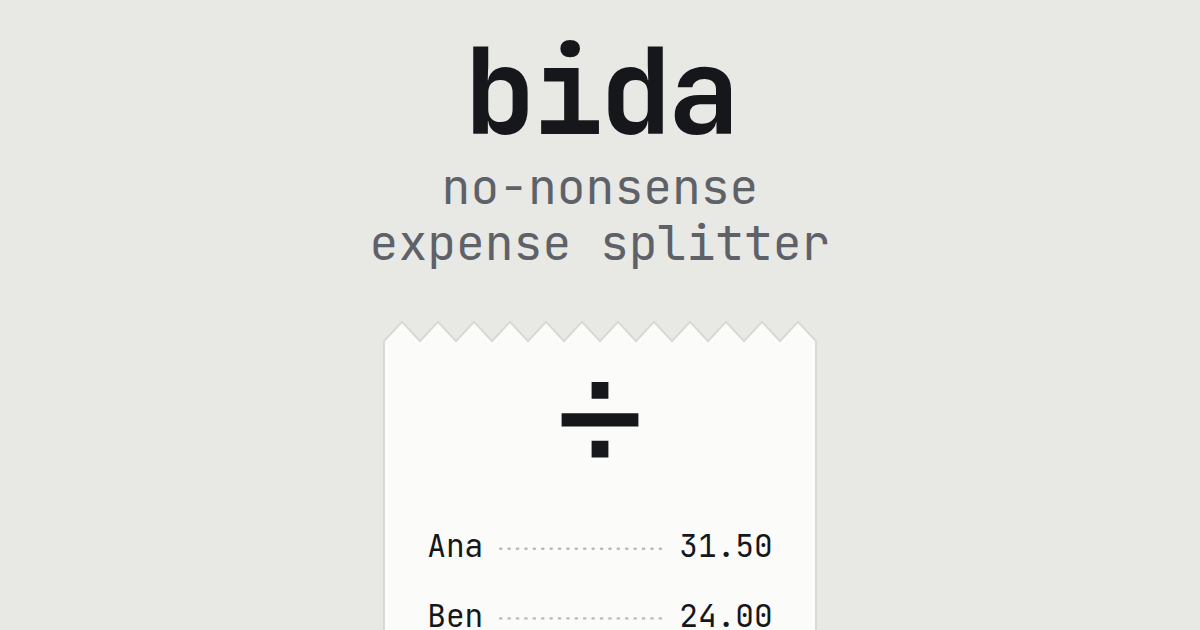
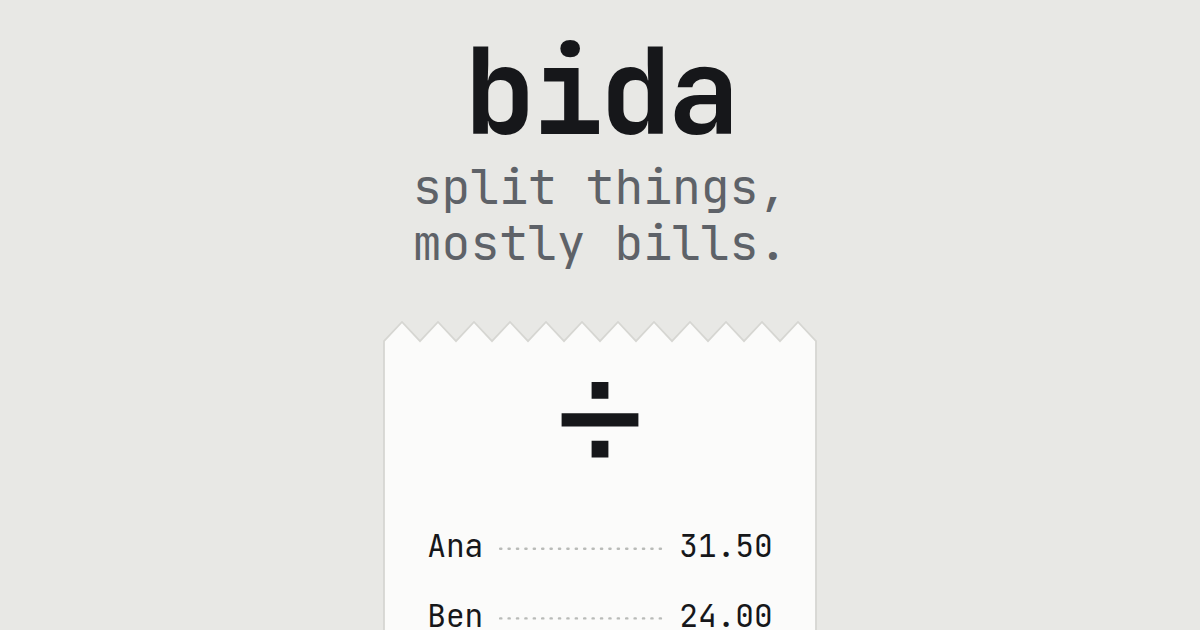
web: new slogan, "Split things. Mostly bills."
On the banner (og.png redrawn), the page and manifest description, the
banner's alt text, and under the README's title with a line on what bida is.

Claude-Session: https://claude.ai/code/session_01PECSAz6X4PLyKBbFuLZdEY

Changed region(s): [[0.3083, 0.2714, 0.7092, 0.4222], [0.3392, 0.2714, 0.555, 0.3317]]

diff --git a/apps/web/lib/copy.ts b/apps/web/lib/copy.ts
@@ -44,11 +44,11 @@ export const copy = {
   app: {
     name: "bida",
     /** The page description: the line under "bida" in a pasted-link preview. Never shown in-app. */
-    description: "No-nonsense expense splitter.",
+    description: "Split things. Mostly bills.",
     /** Alt text for the preview banner, public/og.png — what the picture says. */
     /** An invite's preview title. The banner already says "bida" and the slogan, and the group's name can't be had (docs/pwa.md). */
     invite: "Join the group",
-    banner: "bida, no-nonsense expense splitter: a receipt split between Ana and Ben",
+    banner: "bida, split things, mostly bills: a receipt split between Ana and Ben",
   },
 
   /** Buttons. One verb each — a button never says "OK". */

diff --git a/README.md b/README.md
@@ -4,7 +4,9 @@
 
 <h1 align="center">bida</h1>
 
-<p align="center">Lightweight, full-featured and free Splitwise/Tricount alternative.</p>
+<p align="center"><i>Split things. Mostly bills.</i></p>
+
+<p align="center">bida is an expense splitter app similar to Splitwise or Tricount. It's free and it works in the browser, no accounts needed. Also, it lets you scan and split receipts by items.</p>
 
 <p align="center">
   <a href="https://bida.bid"><b>bida.bid</b></a>
